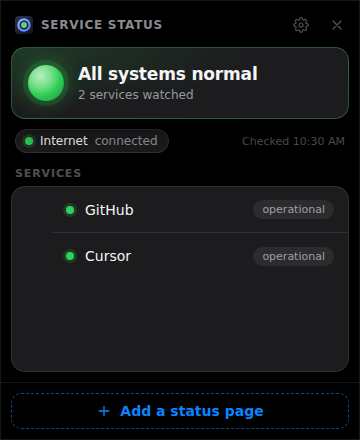
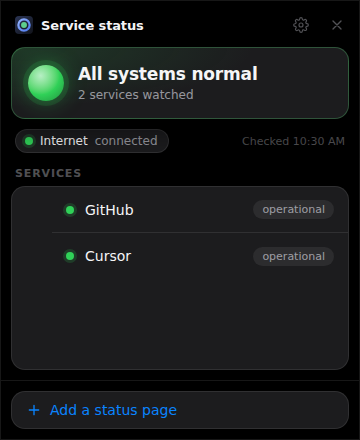
fix: flatten the CTA button, quiet the add row, soften focus rings
More generic-tell cleanup on the same redesign:

- The app title read as a small-caps SaaS card-header label ("SERVICE
  STATUS"), not a window title. Section labels above a grouped list
  correctly keep that treatment; the title itself now reads like one.
- "Add a status page" was a dashed-border placeholder box, the
  kanban/Notion "add a card" tell. It's a quiet bordered row now, left-
  aligned like a list item, matching the grouped list's own surface.
- The Add button had a glossy gradient fill and a coloured glow shadow
  underneath — flattened to a single solid fill, the way macOS's own
  default button looks, with a hover darken instead.
- Every focus-visible ring was a hard 2px opaque outline. Softened to a
  translucent 3px halo everywhere, matching the treatment the add
  input's own focus state already used.

Claude-Session: https://claude.ai/code/session_01FZUuuqVFKzmv6kDXKpMVS7

Changed region(s): [[0.0306, 0.8864, 0.9778, 0.975], [0.0611, 0.8273, 0.9472, 0.8568], [0.0917, 0.0295, 0.4583, 0.0886]]

diff --git a/src/styles.css b/src/styles.css
@@ -159,14 +159,22 @@ button {
   height: 18px;
 }
 
+/*
+ * A window title, not a section eyebrow: normal case, near-full ink, the
+ * display font. Small-caps grey tracking (kept for .section-label, where
+ * it's the correct native convention above a grouped list) on the title
+ * itself is the "SaaS dashboard card header" tell, not a native title bar.
+ */
 .app-title {
   flex: 1;
   margin: 0;
-  color: var(--ink-dim);
-  font-size: 12px;
+  color: var(--ink);
+  font-family:
+    -apple-system, BlinkMacSystemFont, 'SF Pro Display', 'Segoe UI Variable Display', 'Segoe UI',
+    system-ui, sans-serif;
+  font-size: 13px;
   font-weight: 600;
-  letter-spacing: 0.06em;
-  text-transform: uppercase;
+  letter-spacing: -0.01em;
 }
 
 .icon-button {
@@ -188,7 +196,7 @@ button {
 }
 
 .icon-button:focus-visible {
-  outline: 2px solid var(--accent);
+  outline: 3px solid color-mix(in srgb, var(--accent) 30%, transparent);
   outline-offset: 1px;
 }
 
@@ -466,8 +474,8 @@ button {
 .service-row:focus-visible {
   position: relative;
   z-index: 1;
-  outline: 2px solid var(--accent);
-  outline-offset: -2px;
+  outline: 3px solid color-mix(in srgb, var(--accent) 30%, transparent);
+  outline-offset: -3px;
 }
 
 /* A service in trouble carries its colour down the row's left edge. */
@@ -579,29 +587,33 @@ button {
   line-height: 1.45;
 }
 
+/*
+ * A quiet row, not a dashed placeholder box: a dashed "add" outline is the
+ * generic kanban/SaaS tell (Trello, Notion). This reads as one more row you
+ * could add, left-aligned like a list item, not a shouted call to action.
+ */
 .add-open {
   display: flex;
   align-items: center;
-  justify-content: center;
   gap: 8px;
   width: 100%;
-  padding: 9px 12px;
-  border: 1px dashed color-mix(in srgb, var(--accent) 45%, var(--line));
-  border-radius: 10px;
-  background: transparent;
+  padding: 10px 14px;
+  border: 1px solid var(--line);
+  border-radius: var(--radius);
+  background: var(--surface);
   color: var(--accent);
-  font-weight: 600;
+  font-weight: 500;
   cursor: pointer;
   transition: background-color 120ms ease-out;
 }
 
 .add-open:hover {
-  background: color-mix(in srgb, var(--accent) 8%, transparent);
+  background: var(--raised);
 }
 
 .add-open:focus-visible,
 .add-submit:focus-visible {
-  outline: 2px solid var(--accent);
+  outline: 3px solid color-mix(in srgb, var(--accent) 30%, transparent);
   outline-offset: 2px;
 }
 
@@ -639,18 +651,24 @@ button {
 
 .add-input:focus {
   border-color: var(--accent);
-  outline: 3px solid color-mix(in srgb, var(--accent) 22%, transparent);
+  outline: 3px solid color-mix(in srgb, var(--accent) 30%, transparent);
 }
 
+/* A flat fill, not a glossy gradient with a colour-glow shadow underneath:
+   macOS's own default button is a single flat colour. */
 .add-submit {
   padding: 8px 16px;
   border: 0;
   border-radius: 8px;
-  background: linear-gradient(180deg, color-mix(in srgb, var(--accent) 85%, white), var(--accent));
+  background: var(--accent);
   color: var(--accent-ink);
-  font-weight: 650;
+  font-weight: 600;
   cursor: pointer;
-  box-shadow: 0 4px 14px color-mix(in srgb, var(--accent) 35%, transparent);
+  transition: background-color 120ms ease-out;
+}
+
+.add-submit:hover:not(:disabled) {
+  background: color-mix(in srgb, var(--accent) 88%, black);
 }
 
 .add-submit:disabled {
@@ -794,7 +812,7 @@ body[data-mode='popup'] .panel {
 }
 
 .alert-link:focus-visible {
-  outline: 2px solid var(--accent);
+  outline: 3px solid color-mix(in srgb, var(--accent) 30%, transparent);
   outline-offset: 2px;
 }
 
@@ -814,7 +832,8 @@ body[data-mode='popup'] .panel {
   .service-remove,
   .pill,
   .service-row,
-  .add-open {
+  .add-open,
+  .add-submit {
     transition: none;
   }
 }
